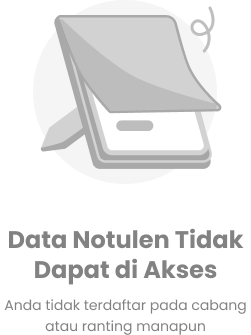
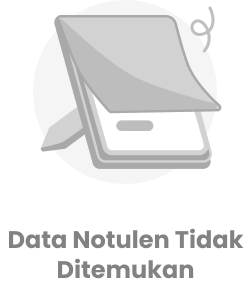
update

diff --git a/src/app/profil/edit-profil/edit-profil.page.ts b/src/app/profil/edit-profil/edit-profil.page.ts
@@ -6,6 +6,7 @@ import { ApiService } from 'src/app/services/api.service';
 import { CommonService } from 'src/app/services/common.service';
 import { Camera, CameraResultType, CameraSource } from '@capacitor/camera';
 import { FormBuilder, FormControl, FormGroup, Validators } from '@angular/forms';
+import { LoadingService } from 'src/app/services/loading.service';
 
 @Component({
   selector: 'app-edit-profil',
@@ -26,6 +27,7 @@ export class EditProfilPage implements OnInit {
     private loadingController: LoadingController,
     public actionSheetController:ActionSheetController,
     private toastController: ToastController,
+    private loadingService: LoadingService
   ) { 
     this.form = this.formBuilder.group({
       email: [null, [Validators.required, Validators.email]],
@@ -222,8 +224,10 @@ export class EditProfilPage implements OnInit {
   uploadImg:boolean;
   async uploadPhoto()
   {
+    this.loadingService.present();
     if (!this.form.valid) {
       this.validateAllFormFields(this.form);
+      this.loadingService.dismiss();
     }
     else {
       if(this.image != undefined) {
@@ -262,8 +266,10 @@ export class EditProfilPage implements OnInit {
       });
       this.loading = false;
       this.router.navigate(['/home']);
+      this.loadingService.dismiss();
     }, error => {
       console.log(error)
+      this.loadingService.dismiss();
     });
   }
 

diff --git a/src/app/home/home.page.ts b/src/app/home/home.page.ts
@@ -396,13 +396,23 @@ export class HomePage implements OnInit {
   isVisible:boolean = false;
   async cekLogin()
   {
+    this.userData = {};
+    this.isLoggedIn = false;
+    this.isVisible = false;
     this.dataLogin = await JSON.parse(localStorage.getItem('salammuToken'));
     this.api.me().then(async res=>{
       this.userData = res;
       this.isLoggedIn = true;
-      if(this.dataLogin.cabang_id || this.dataLogin.ranting_id) {
+      if(this.userData.cabang || this.userData.ranting) {
         this.isVisible = true;
+      } else {
+        this.isVisible = false;
       }
+      this.dataLogin.cabang = this.userData.cabang;
+      this.dataLogin.ranting = this.userData.ranting;
+      this.dataLogin.cabang_nama = this.userData.cabang_nama;
+      this.dataLogin.ranting_nama = this.userData.ranting_nama;
+      localStorage.setItem('salammuToken',JSON.stringify(this.dataLogin));
       this.loadingService.dismiss();
     }, async error => {
       this.loading = false;

diff --git a/src/app/notulenmu/notulenmu.page.html b/src/app/notulenmu/notulenmu.page.html
@@ -47,11 +47,12 @@
         <ion-searchbar style="margin-top: 14px" mode="ios" showCancelButton="never" [(ngModel)]="searchTerm" (ionChange)="searchChanged($event)" placeholder="Cari Notulen"></ion-searchbar>
 
       
-        <div class="item-centered-sicara" *ngIf="!loading && listNotulenMu.length == 0">
+        <div class="item-centered-sicara" *ngIf="!loading && listNotulenMu.length == 0 && dataLogin.cabang_nama || dataLogin.ranting_nama">
           <img src="./assets/imgs/blank-notulenmu.png">
-          <!-- <ion-label>
-            <p>Notulen tidak ditemukan</p>
-          </ion-label> -->
+        </div>
+
+        <div class="item-centered-sicara" *ngIf="!loading && listNotulenMu.length == 0 && dataLogin.cabang_nama == null && dataLogin.ranting_nama == null">
+          <img src="./assets/imgs/blank-notulenmu-tidakterdaftar.png">
         </div>
 
         <ion-list *ngIf="!loading && listNotulenMu.length > 0">

diff --git a/src/app/app.component.ts b/src/app/app.component.ts
@@ -54,7 +54,7 @@ export class AppComponent {
         this.routerOutlet.pop();
       } else if (this.router.url === '/profil' || this.router.url === '/login' || 
         this.router.url === '/video' || this.router.url === '/pengajian' || this.router.url === '/produk-mu' || 
-        this.router.url === '/jadwal-sholat' || this.router.url === '/cabang-ranting' || this.router.url === '/al-quran') {
+        this.router.url === '/jadwal-sholat' || this.router.url === '/cabang-ranting') {
         this.router.navigate(['/home']);
       }
     });

diff --git a/src/app/al-quran/detail-surat/detail-surat.page.ts b/src/app/al-quran/detail-surat/detail-surat.page.ts
@@ -29,9 +29,9 @@ export class DetailSuratPage implements OnInit {
     public platform: Platform,
     private loadingService: LoadingService,
   ) { 
-    this.subscription =  this.platform.backButton.subscribeWithPriority(999, () => {
-      this.router.navigate(['/al-quran'], {replaceUrl: true});
-    });
+    // this.subscription =  this.platform.backButton.subscribeWithPriority(999, () => {
+    //   this.router.navigate(['/al-quran'], {replaceUrl: true});
+    // });
   }
 
   ngOnInit() {

diff --git a/src/app/al-quran/al-quran.page.ts b/src/app/al-quran/al-quran.page.ts
@@ -24,9 +24,9 @@ export class AlQuranPage implements OnInit {
     public platform: Platform,
     private loadingService: LoadingService
   ) { 
-    this.platform.backButton.subscribeWithPriority(10, () => {
-      this.router.navigate(['/home']);
-    });
+    // this.platform.backButton.subscribeWithPriority(10, () => {
+    //   this.router.navigate(['/home']);
+    // });
   }
 
   async ngOnInit() {
